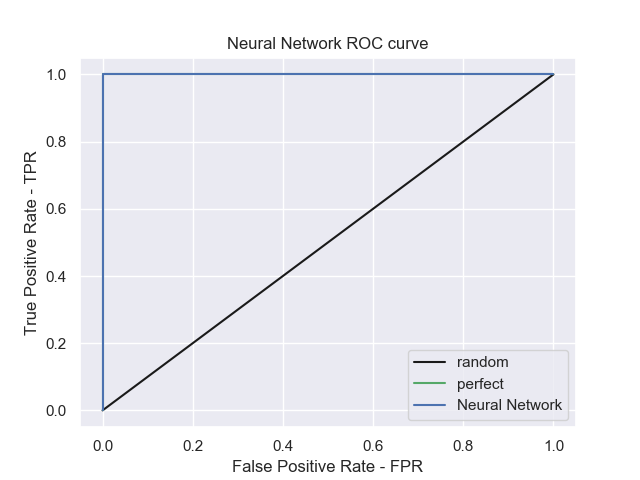
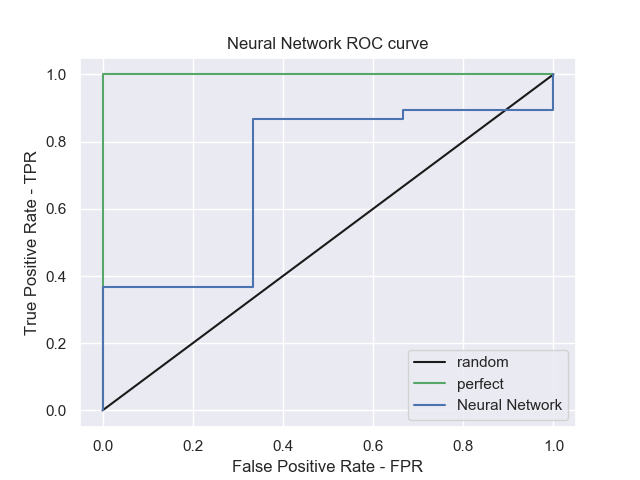
added tuning

Changed region(s): [[0.1562, 0.125, 0.8438, 0.1562], [0.4062, 0.2188, 0.875, 0.25], [0.1562, 0.5938, 0.375, 0.625]]

diff --git a/ml_rf.py b/ml_rf.py
@@ -173,7 +173,7 @@ from sklearn.metrics import f1_score,auc
 # split into train/test sets
 trainX, testX, trainy, testy = train_test_split(x, y, test_size=0.2, random_state=42)
 # fit a model
-model = RandomForestClassifier()
+model = RandomForestClassifier(**tree_cv.best_params_)
 model.fit(trainX, trainy)
 # predict probabilities
 lr_probs = model.predict_proba(testX)
@@ -203,7 +203,7 @@ https://towardsdatascience.com/cross-validation-explained-evaluating-estimator-p
 """
 print("[+] Cross validation")
 kfold = KFold(n_splits=10, random_state=42)
-model_kfold = RandomForestClassifier()
+model_kfold = RandomForestClassifier(**tree_cv.best_params_)
 results_kfold = cross_val_score(model_kfold, x, y, cv=kfold)
 
 print("Accuracy: %.2f%%" % (results_kfold.mean()*100.0))

diff --git a/ml_dt.py b/ml_dt.py
@@ -169,7 +169,7 @@ from sklearn.metrics import f1_score,auc
 # split into train/test sets
 trainX, testX, trainy, testy = train_test_split(standardized_x, y, test_size=0.2, random_state=42,shuffle=True)
 # fit a model
-model = DecisionTreeClassifier()
+model = DecisionTreeClassifier(**tree_cv.best_params_)
 model.fit(trainX, trainy)
 # predict probabilities
 lr_probs = model.predict_proba(testX)
@@ -201,7 +201,7 @@ Cross validation k-fold
 from sklearn.model_selection import KFold
 
 kfold = KFold(n_splits=10, random_state=42)
-model_kfold = DecisionTreeClassifier()
+model_kfold = DecisionTreeClassifier(**tree_cv.best_params_)
 results_kfold = cross_val_score(model_kfold, standardized_x, y, cv=kfold)
 
 print("Accuracy: %.2f%%" % (results_kfold.mean()*100.0))

diff --git a/ml_knn.py b/ml_knn.py
@@ -163,7 +163,7 @@ from sklearn.metrics import f1_score,auc
 # split into train/test sets
 trainX, testX, trainy, testy = train_test_split(normalized_x , y, test_size=0.2, random_state=42)
 # fit a model
-model = KNeighborsClassifier()
+model = KNeighborsClassifier(**grid.best_params_)
 model.fit(trainX, trainy)
 # predict probabilities
 lr_probs = model.predict_proba(testX)
@@ -209,7 +209,7 @@ Cross validation k-fold
 from sklearn.model_selection import KFold
 
 kfold = KFold(n_splits=10, random_state=42)
-model_kfold = KNeighborsClassifier()
+model_kfold = KNeighborsClassifier(**grid.best_params_)
 results_kfold = cross_val_score(model_kfold, normalized_x , y, cv=kfold)
 
 print("Accuracy: %.2f%%" % (results_kfold.mean()*100.0))

diff --git a/ml_lr.py b/ml_lr.py
@@ -159,7 +159,7 @@ from sklearn.metrics import f1_score,auc
 # split into train/test sets
 trainX, testX, trainy, testy = train_test_split(standardized_x, y, test_size=0.2, random_state=42)
 # fit a model
-model = LogisticRegression(solver='lbfgs')
+model = LogisticRegression(**logreg_cv.best_params_)
 model.fit(trainX, trainy)
 # predict probabilities
 lr_probs = model.predict_proba(testX)
@@ -189,7 +189,7 @@ Cross validation k-fold
 """
 
 kfold = KFold(n_splits=10, random_state=42)
-model_kfold = LogisticRegression()
+model_kfold = LogisticRegression(**logreg_cv.best_params_)
 results_kfold = cross_val_score(model_kfold, x, y, cv=kfold)
 
 print("Accuracy: %.2f%%" % (results_kfold.mean()*100.0))

diff --git a/ml_svm.py b/ml_svm.py
@@ -168,7 +168,7 @@ from sklearn.metrics import f1_score,auc
 # split into train/test sets
 trainX, testX, trainy, testy = train_test_split(normalized_x, y, test_size=0.2, random_state=42)
 # fit a model
-model = SVC(probability=True )
+model = SVC(**grid.best_params_ )
 model.fit(trainX, trainy)
 # predict probabilities
 lr_probs = model.predict_proba(x_test)
@@ -199,7 +199,7 @@ Cross validation k-fold
 print("[+] Cross validation")
 
 kfold = KFold(n_splits=10, random_state=42)
-model_kfold = SVC()
+model_kfold = SVC(**grid.best_params_)
 results_kfold = cross_val_score(model_kfold, x, y, cv=kfold)
 
 print("Accuracy: %.2f%%" % (results_kfold.mean()*100.0))

diff --git a/ml_nn.py b/ml_nn.py
@@ -177,7 +177,7 @@ from sklearn.metrics import f1_score,auc
 # split into train/test sets
 trainX, testX, trainy, testy = train_test_split(x, y, test_size=0.2, random_state=42)
 # fit a model
-model = MLPClassifier()
+model = MLPClassifier(**grid.best_params_)
 model.fit(trainX, trainy)
 # predict probabilities
 lr_probs = model.predict_proba(testX)
@@ -207,7 +207,7 @@ plt.show()
 Cross validation k-fold
 """
 kfold = KFold(n_splits=10, random_state=42)
-model_kfold = MLPClassifier()
+model_kfold = MLPClassifier(**grid.best_params_)
 results_kfold = cross_val_score(model_kfold, x, y, cv=kfold)
 
 print("Accuracy: %.2f%%" % (results_kfold.mean()*100.0))
